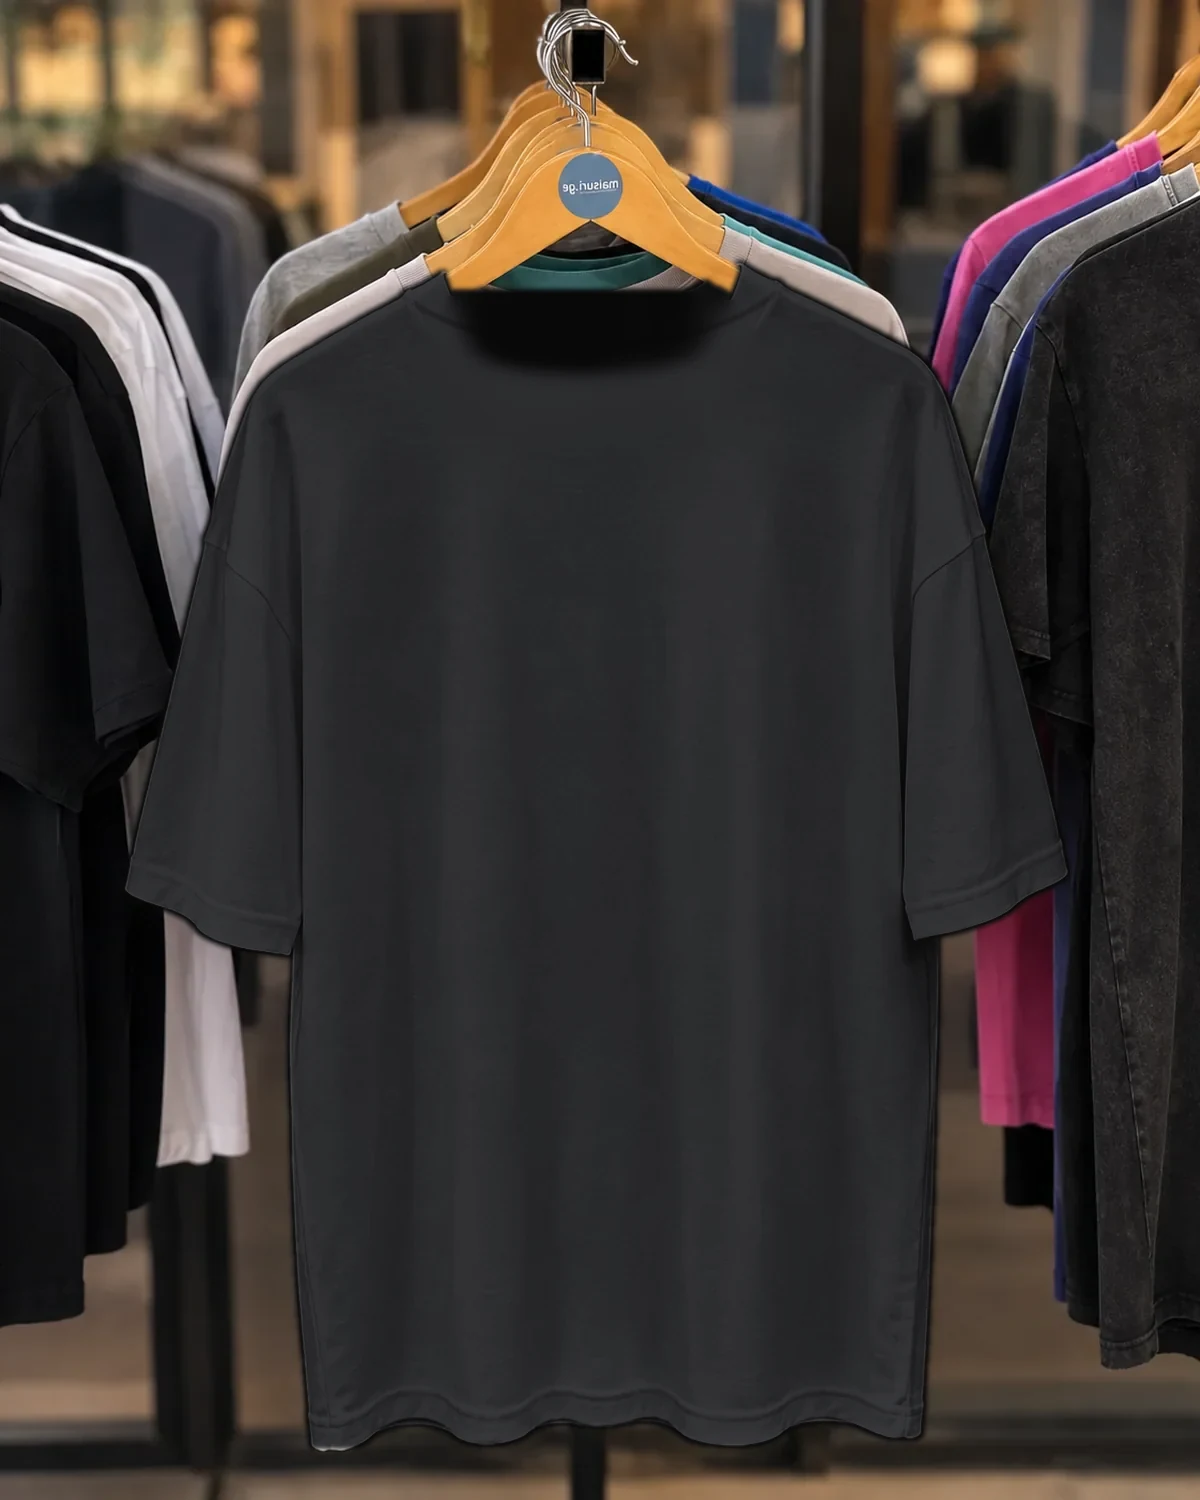
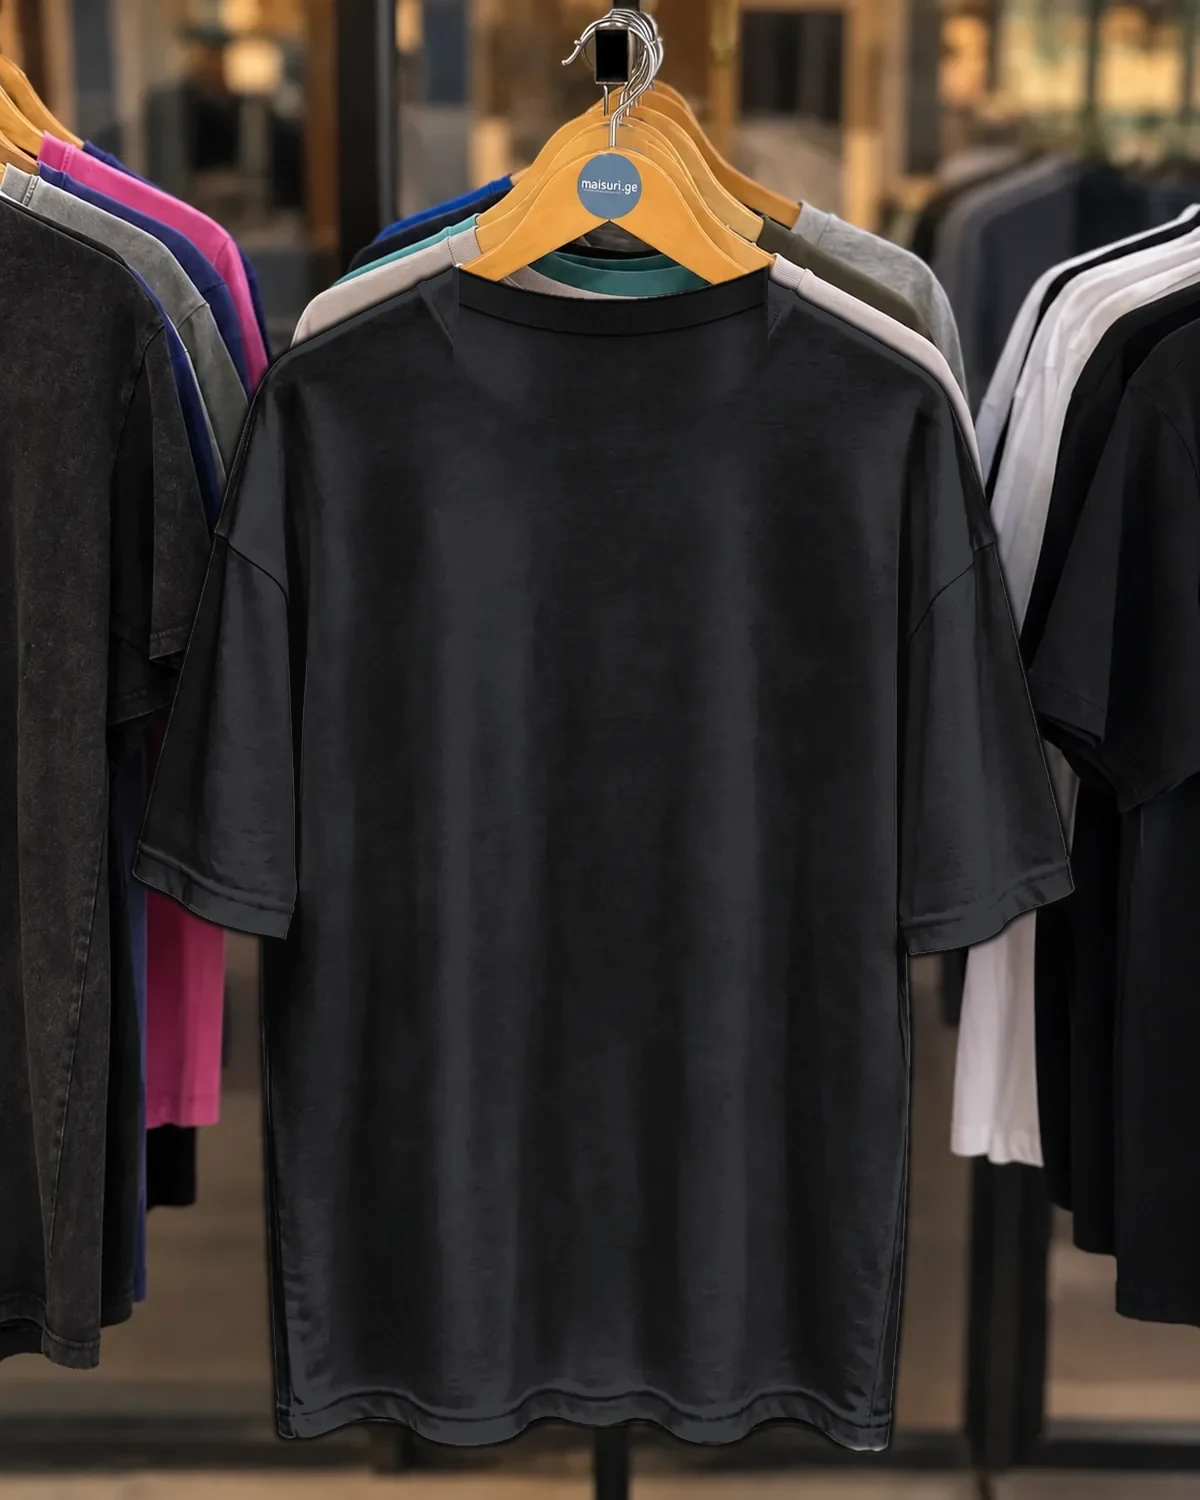
print film ends in the maika.ge paper bag; uploads fit the frame; a real back neckline for Oversize
REPORT
David 2026-11-12 (with two photos of the shop's paper bag): "here is the bag.
I found another error: the uploaded photo missed the upload frame and sat on
the neck. And the collar on the back looks a bit bad."

Bag (PrintAnimation.tsx, public/tour/print/bag.webp)
- Two phases after the film is peeled: "იკეცება…" — the printed garment folds
  to its chest (clip + scale) — and "იფუთება…" — the bag rises, the folded
  garment drops behind its top edge, the bag nods; then "✓ მზადაა" over the
  bag. ~12 s in all (was ~10), still skippable; reduced motion shows the bag.
- bag.webp is the bag's front from David's second photo, straightened
  (perspective) to a flat 480×662 picture, 23 KB; the paper handles are drawn
  (SVG), not cut from the photo.

Upload placement (RackPhotoDesigner.tsx)
- A new photo was sized by the frame's width only (80 %), so a tall photo in
  a low frame — the hoodie's frame above the pocket, a phone screenshot on a
  tee — stuck out of the top onto the neck. It is now sized to fit inside
  90 % of the frame both ways and centred (a low picture keeps the old,
  slightly raised place).

Oversize back (public/tour/lab/oversize-back*.webp, -mask.png)
- The back was the mirrored front with the collar blurred out (a smudge, and
  a mirrored hanger tag). Rebuilt from the un-mirrored front: clean cloth
  from the chest laid over the collar and the neck opening (light matched,
  feathered into the shoulders), a back neckline with its rib band and seam
[…]

diff --git a/src/components/PrintAnimation.tsx b/src/components/PrintAnimation.tsx
@@ -4,7 +4,8 @@ import { useEffect, useRef, useState } from "react";
 // the chosen print comes out of a DTF printer on film, gets its powder and
 // heat, then the chosen garment lies on the heat press, the film goes on,
 // the press closes (3-2-1, steam), opens, the film is peeled off — the print
-// stays on the garment. ~10 s, can be skipped; with reduced motion only the
+// stays on the garment; then it is folded and dropped into the shop's paper
+// bag (David 2026-11-12, his photo of the bag). ~12 s, can be skipped; with reduced motion only the
 // finished garment is shown for a moment.
 //
 // The printer and the press are pictures drawn with ChatGPT (2026-11-11,
@@ -27,7 +28,7 @@ export interface PrintAnimationProps {
   onSkip?: () => void;
 }
 
-type Phase = "print" | "cure" | "lay" | "press" | "open" | "peel" | "done";
+type Phase = "print" | "cure" | "lay" | "press" | "open" | "peel" | "fold" | "bag" | "done";
 const ORDER: [Phase, number][] = [
   ["print", 2600],
   ["cure", 1500],
@@ -35,6 +36,8 @@ const ORDER: [Phase, number][] = [
   ["press", 2100],
   ["open", 600],
   ["peel", 1000],
+  ["fold", 900],
+  ["bag", 1500],
   ["done", 1300],
 ];
 const CAPTION: Record<Phase, string> = {
@@ -44,6 +47,8 @@ const CAPTION: Record<Phase, string> = {
   press: "თერმოპრესი…",
   open: "თერმოპრესი…",
   peel: "ფირი ძვრება…",
+  fold: "იკეცება…",
+  bag: "იფუთება…",
   done: "მზადაა!",
 };
 
@@ -76,7 +81,9 @@ export default function PrintAnimation({ designSrc, garmentBlankSrc, garmentPrin
 
   const printer = phase === "print" || phase === "cure";
   const pressed = phase === "press";
-  const afterPress = phase === "open" || phase === "peel" || phase === "done";
+  const afterPress = phase === "open" || phase === "peel";
+  // the end: the printed garment is folded and goes into the shop's paper bag
+  const packing = phase === "fold" || phase === "bag" || phase === "done";
 
   return (
     <div role="dialog" aria-modal="true" aria-label="ბეჭდვა" className="fixed inset-0 z-[200] flex flex-col items-center justify-center overflow-hidden bg-[radial-gradient(ellipse_at_50%_30%,#2b2620_0%,#0c0c0c_75%)] text-white">
@@ -92,6 +99,10 @@ export default function PrintAnimation({ designSrc, garmentBlankSrc, garmentPrin
         @keyframes pa-pop { from { transform: scale(.6); opacity: 0 } 60% { transform: scale(1.08); opacity: 1 } to { transform: scale(1) } }
         @keyframes pa-shine { from { transform: translateX(-140%) skewX(-18deg) } to { transform: translateX(260%) skewX(-18deg) } }
         @keyframes pa-in { from { opacity: 0; transform: translateY(14px) } to { opacity: 1; transform: none } }
+        @keyframes pa-fold { from { clip-path: inset(0 0 0 0 round 0px); transform: none } to { clip-path: inset(16% 27% 38% 27% round 10px); transform: translateY(-118px) scale(.9) } }
+        @keyframes pa-into { from { transform: translateY(-118px) scale(.9) } to { transform: translateY(112px) scale(.9) } }
+        @keyframes pa-bag-in { from { transform: translate(-50%, 130%) } to { transform: translate(-50%, 0) } }
+        @keyframes pa-bag-nod { 0%, 100% { transform: translate(-50%, 0) } 45% { transform: translate(-50%, 7px) scale(1.02, .985) } }
       `}</style>
 
       <p key={CAPTION[phase]} aria-live="polite" className="mb-4 h-7 text-base font-bold tracking-wide" style={{ animation: "pa-in 260ms ease-out both" }}>
@@ -138,15 +149,14 @@ export default function PrintAnimation({ designSrc, garmentBlankSrc, garmentPrin
         )}
 
         {/* ── scene 3–4: the heat press from above (press-base.webp / press-top.webp, both 2:3) ── */}
-        {!printer && (
+        {!printer && !packing && (
           <div className="absolute inset-x-[10px] inset-y-0" style={{ animation: "pa-in 300ms ease-out both" }}>
             <img src="/tour/print/press-base.webp" alt="" draggable={false} className="absolute inset-0 h-full w-full select-none drop-shadow-[0_18px_30px_rgba(0,0,0,.8)]" />
             {/* the garment on the grey pad */}
             <div className="absolute bottom-[14.5%] left-[9%] right-[9%] top-[23.5%]">
               <img src={afterPress ? garmentPrintedSrc : garmentBlankSrc} alt="" className="absolute inset-0 h-full w-full object-contain drop-shadow-[0_4px_6px_rgba(0,0,0,.35)]" />
               {/* the film with the print, laid on; peeled off at the end */}
-              {phase !== "done" && (
-                <div
+              <div
                   className="absolute inset-0"
                   style={{
                     animation: phase === "lay" ? "pa-drop 620ms cubic-bezier(.2,.8,.2,1) both" : phase === "peel" ? "pa-peel 900ms cubic-bezier(.5,0,.8,.4) both" : undefined,
@@ -156,12 +166,6 @@ export default function PrintAnimation({ designSrc, garmentBlankSrc, garmentPrin
                   {!afterPress && <img src={printLayerSrc} alt="" className="absolute inset-0 h-full w-full object-contain" />}
                   <span className="absolute left-[16%] right-[16%] top-[10%] h-[62%] rounded-md border border-white/40 bg-white/[0.14]" />
                 </div>
-              )}
-              {phase === "done" && (
-                <span className="pointer-events-none absolute inset-0 overflow-hidden">
-                  <span className="absolute inset-y-0 w-1/3 bg-gradient-to-r from-transparent via-white/35 to-transparent" style={{ animation: "pa-shine 900ms ease-out both" }} />
-                </span>
-              )}
             </div>
             {/* the upper plate: comes down over the pad, the count on its display */}
             <div className="pointer-events-none absolute inset-x-0 -top-8 bottom-0 z-10 overflow-hidden">
@@ -187,8 +191,48 @@ export default function PrintAnimation({ designSrc, garmentBlankSrc, garmentPrin
                   style={{ left: s < 0 ? "-6%" : "88%", ["--dx" as string]: `${s * (26 + i * 9)}px`, animation: `pa-steam 1100ms ease-out ${i * 260}ms infinite` }}
                 />
               ))}
+          </div>
+        )}
+
+        {/* ── scene 5: folded, into the maika.ge paper bag (the shop's own bag,
+            public/tour/print/bag.webp — its front, straightened from David's photo) ── */}
+        {packing && (
+          <div className="absolute inset-0" style={{ animation: phase === "fold" ? "pa-in 200ms ease-out both" : undefined }}>
+            {/* the garment: folds to its chest, then drops behind the bag's edge (the wrapper cuts it there) */}
+            {phase !== "done" && (
+              <div className="absolute inset-x-0 -top-10 z-10 h-[246px]" style={{ overflow: phase === "bag" ? "hidden" : "visible" }}>
+                <div
+                  className="absolute inset-x-6 top-[106px] h-[380px]"
+                  style={{
+                    clipPath: "inset(16% 27% 38% 27% round 10px)",
+                    transform: "translateY(-118px) scale(.9)",
+                    animation: phase === "fold" ? "pa-fold 760ms cubic-bezier(.5,0,.2,1) both" : "pa-into 720ms cubic-bezier(.6,0,.8,.5) 520ms both",
+                  }}
+                >
+                  <img src={garmentPrintedSrc} alt="" className="absolute inset-0 h-full w-full object-contain" />
+                </div>
+              </div>
+            )}
+            {(phase === "bag" || phase === "done") && (
+              <div
+                className="absolute left-1/2 top-[204px] z-20 w-[172px]"
+                style={{ transform: "translate(-50%, 0)", animation: phase === "bag" ? "pa-bag-in 480ms cubic-bezier(.2,.8,.2,1) both, pa-bag-nod 380ms ease-out 1180ms" : undefined }}
+              >
+                {/* twisted paper handles */}
+                <svg viewBox="0 0 172 60" className="absolute -top-[58px] left-0 h-[60px] w-full" aria-hidden>
+                  <path d="M52 60 C50 6, 122 6, 120 60" fill="none" stroke="#a9834f" strokeWidth="5" strokeLinecap="round" />
+                  <path d="M52 60 C50 6, 122 6, 120 60" fill="none" stroke="#d9b98a" strokeWidth="2" strokeLinecap="round" strokeDasharray="5 4" />
+                </svg>
+                <img src="/tour/print/bag.webp" alt="maika.ge" draggable={false} className="block w-full select-none rounded-[3px] shadow-[0_18px_30px_-6px_rgba(0,0,0,.85)]" />
+                {phase === "done" && (
+                  <span className="pointer-events-none absolute inset-0 overflow-hidden rounded-[3px]">
+                    <span className="absolute inset-y-0 w-1/3 bg-gradient-to-r from-transparent via-white/25 to-transparent" style={{ animation: "pa-shine 900ms ease-out both" }} />
+                  </span>
+                )}
+              </div>
+            )}
             {phase === "done" && (
-              <div className="absolute left-1/2 top-[7%] z-30 -translate-x-1/2 whitespace-nowrap rounded-full bg-emerald-500 px-5 py-2 text-lg font-extrabold text-white shadow-lg" style={{ animation: "pa-pop 420ms ease-out both" }}>
+              <div className="absolute left-1/2 top-[52px] z-30 -translate-x-1/2 whitespace-nowrap rounded-full bg-emerald-500 px-5 py-2 text-lg font-extrabold text-white shadow-lg" style={{ animation: "pa-pop 420ms ease-out both" }}>
                 ✓ მზადაა
               </div>
             )}

diff --git a/src/lib/tour/garmentPhoto.ts b/src/lib/tour/garmentPhoto.ts
@@ -10,7 +10,7 @@ export const H = 1500;
 // where a print sits on the garment in the photo (px of the 1200×1500 photo)
 export const AREA: Record<Side, { x: number; y: number; w: number; h: number }> = {
   front: { x: 395, y: 470, w: 430, h: 560 },
-  back: { x: 375, y: 400, w: 430, h: 620 },
+  back: { x: 395, y: 400, w: 430, h: 620 },
 };
 export const SRC: Record<Side, { photo: string; mask: string }> = {
   front: { photo: "/tour/lab/oversize-front.webp", mask: "/tour/lab/oversize-front-mask.png" },
@@ -19,7 +19,7 @@ export const SRC: Record<Side, { photo: string; mask: string }> = {
 // the garment's box in the photo (for the print film: the garment alone, cut out)
 export const BOX: Record<Side, { x: number; y: number; w: number; h: number }> = {
   front: { x: 120, y: 255, w: 970, h: 1185 },
-  back: { x: 110, y: 255, w: 970, h: 1185 },
+  back: { x: 120, y: 255, w: 970, h: 1185 },
 };
 export interface SideLayers {
   photo: HTMLImageElement;

diff --git a/src/components/tour/RackPhotoDesigner.tsx b/src/components/tour/RackPhotoDesigner.tsx
@@ -177,7 +177,12 @@ export default function RackPhotoDesigner({ alt, garment, brand, width, onOrder 
   const onFile = (f: File | undefined) => {
     if (!f) return;
     void loadImg(URL.createObjectURL(f)).then((img) => {
-      setDesign({ img });
+      // The picture goes INSIDE the frame, whatever its shape (David 2026-11-12: "the
+      // uploaded photo missed the frame and sat on the neck" — a tall photo in a low
+      // frame, the hoodie's above all, was sized by width only and stuck out of the top).
+      const tall = (img.naturalHeight / img.naturalWidth) * A.w; // its height at full frame width
+      const scale = Math.min(0.8, (0.9 * A.h) / tall);
+      setDesign({ img, scale, x: 0.5, y: tall * scale > 0.7 * A.h ? 0.5 : 0.42 });
       setPrinted(false);
     });
   };
